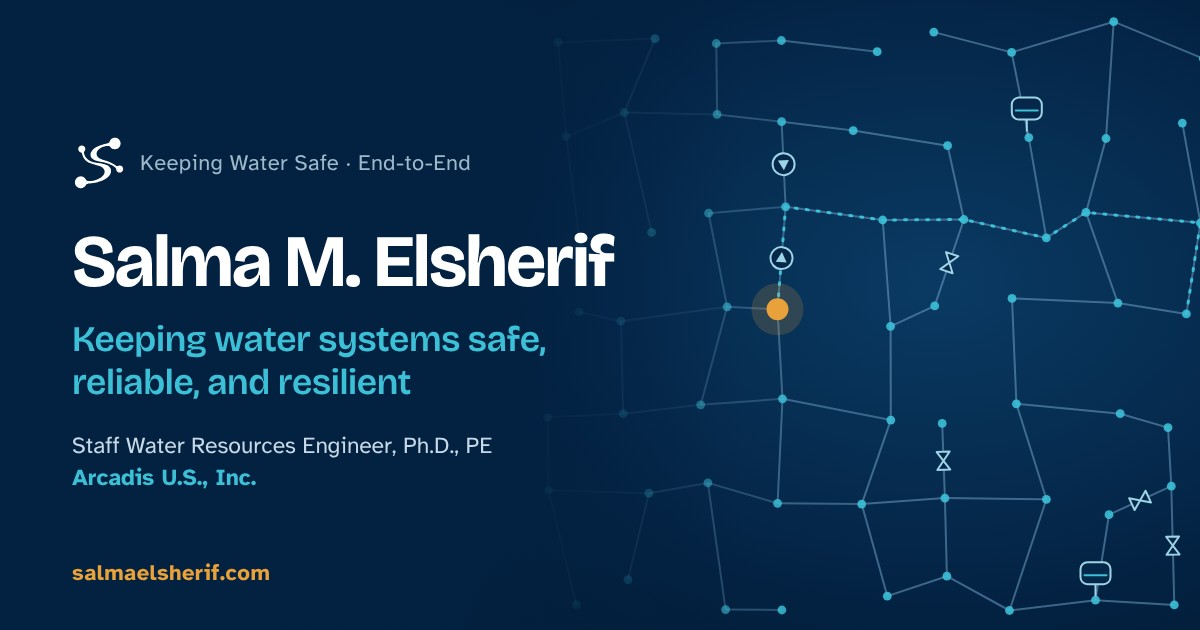
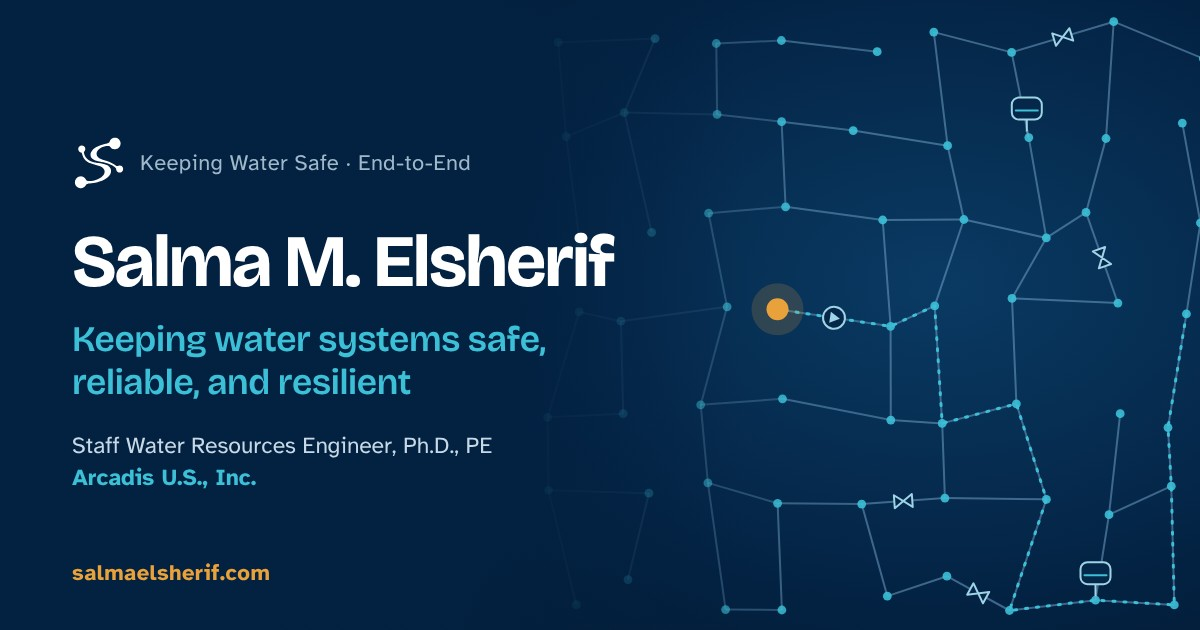
Network realism: one main out of the plant, tanks with at most two pipes
Home page network and link-preview image:
- The treatment plant has a single discharge main with the high-service
  pump, feeding one entry junction that distributes to the grid.
- Elevated tanks connect by at most two pipes.
- Equipment stays clear of the "About this network" button.
- Preview image: one pump only, every junction connected.

Claude-Session: https://claude.ai/code/session_01EsgMeXZkCBPzKbMDwoLkVG

diff --git a/assets/js/brand.js b/assets/js/brand.js
@@ -302,10 +302,14 @@
     nodes.forEach(function (n) { var d = Math.hypot(n.x - tx, n.y - ty); if (d < bd) { bd = d; best = n; } });
     source = best; source.kind = "plant";
 
-    // 1) a random spanning tree from the plant, so every junction is reachable
-    var inTree = new Set([source]), frontier = [];
-    var pushEdges = function (n) { neighbours(n).forEach(function (m) { if (!inTree.has(m)) frontier.push([n, m]); }); };
-    pushEdges(source);
+    // The plant has a single discharge main (with the high-service pump) into one entry junction.
+    // Every other pipe belongs to the distribution grid and never touches the plant.
+    var gridNb = function (n) { return neighbours(n).filter(function (m) { return m !== source; }); };
+    var entry = neighbours(source).sort(function (a, b) { return Math.hypot(a.x - W * 0.5, a.y - H * 0.5) - Math.hypot(b.x - W * 0.5, b.y - H * 0.5); })[0];
+    // 1) a random spanning tree from the entry junction, so every junction is reachable
+    var inTree = new Set([entry]), frontier = [];
+    var pushEdges = function (n) { gridNb(n).forEach(function (m) { if (!inTree.has(m)) frontier.push([n, m]); }); };
+    pushEdges(entry);
     while (frontier.length) {
       var k = Math.floor(rand() * frontier.length), e = frontier.splice(k, 1)[0];
       if (inTree.has(e[1])) continue;
@@ -313,16 +317,17 @@
     }
     // islands cut off by missing grid cells join their nearest connected junction
     nodes.forEach(function (n) {
-      if (inTree.has(n)) return;
+      if (n === source || inTree.has(n)) return;
       var near = null, nd = Infinity;
       inTree.forEach(function (m) { var d = Math.hypot(n.x - m.x, n.y - m.y); if (d < nd) { nd = d; near = m; } });
       link(n, near, false); inTree.add(n);
     });
-    // the plant feeds every neighbouring junction, so water leaves on several mains
-    neighbours(source).forEach(function (m) { if (!has(source, m)) link(source, m, true); });
+    // the single main leaving the plant
+    link(source, entry, true);
     // 2) extra pipes close loops, like a real gridded distribution system
     nodes.forEach(function (n) {
-      neighbours(n).forEach(function (m) { if (m.id > n.id && !has(n, m) && rand() < 0.4) link(n, m, false); });
+      if (n === source) return;
+      gridNb(n).forEach(function (m) { if (m.id > n.id && !has(n, m) && rand() < 0.4) link(n, m, false); });
     });
 
     // 3) a few junctions left disconnected on purpose
@@ -356,12 +361,17 @@
     markMain(source, narrow ? 3 : 4);
     source.adj.forEach(function (p) { p.dia = 2.6; });
 
-    var clear = function (x, y) { return narrow ? (x > W * 0.72 && y > H * 0.3 && y < H * 0.62) : x > W * 0.55; };
+    // keep equipment out from under the "About this network" button
+    var noteEl = document.querySelector("#network-note summary"), nb = null;
+    if (noteEl) { var r0 = noteEl.getBoundingClientRect(); nb = { l: r0.left - rect.left - 40, r: r0.right - rect.left + 60, t: r0.top - rect.top - 40, b: r0.bottom - rect.top + 40 }; }
+    var underNote = function (x, y) { return nb && x > nb.l && x < nb.r && y > nb.t && y < nb.b; };
+    var clear = function (x, y) { return !underNote(x, y) && (narrow ? (x > W * 0.72 && y > H * 0.3 && y < H * 0.62) : x > W * 0.55); };
     var usable = function (n) { return n.kind === "junction" && clear(n.x, n.y) && n.x > 24 && n.x < W - 24 && n.y > 24 && n.y < H - 24; };
     var spaced = function (pt, list, min) { return list.every(function (o) { return Math.hypot(pt.x - o.x, pt.y - o.y) > min; }); };
 
     // storage tanks: far from the plant, on quieter ends of the network
-    var tanks = [], cands = nodes.filter(function (n) { return usable(n) && n.d > 3; });
+    // an elevated tank connects to the system by at most two pipes
+    var tanks = [], cands = nodes.filter(function (n) { return usable(n) && n.d > 3 && n.adj.length <= 2; });
     cands.sort(function (a, b) { return (b.d - a.d) + (a.adj.length - b.adj.length) * 0.5; });
     cands.forEach(function (n) {
       if (tanks.length < 2 && spaced(n, tanks.concat([source]), gap * 3)) { n.kind = "tank"; n.tag = "T" + (tanks.length + 1); tanks.push(n); }
@@ -380,7 +390,7 @@
       var near = tanks[0].adj.length ? tanks[0].adj.filter(function (p) { return p.b === tanks[0]; })[0] : null;
       if (near && near.a.adj.length) {
         var up = near.a.adj.filter(function (p) { return p.b === near.a; })[0];
-        if (up && !up.feature) addLink(up, "pump", "PU2", "Booster pump, running");
+        if (up && !up.feature && clear((up.a.x + up.b.x) / 2, (up.a.y + up.b.y) / 2)) addLink(up, "pump", "PU2", "Booster pump, running");
       }
     }
 
